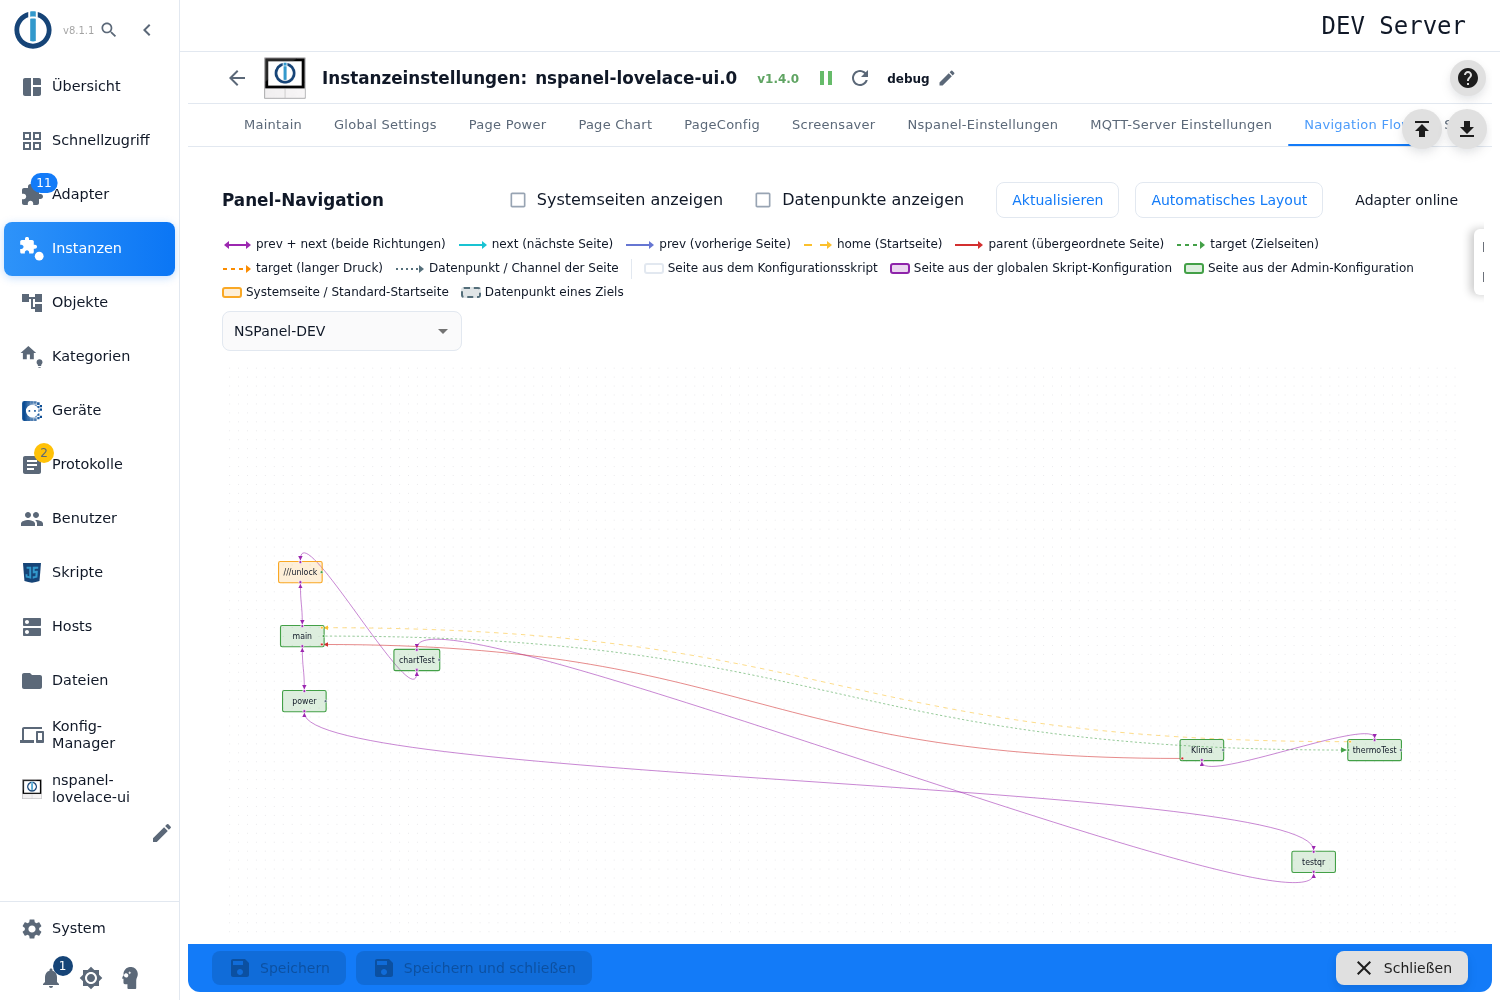
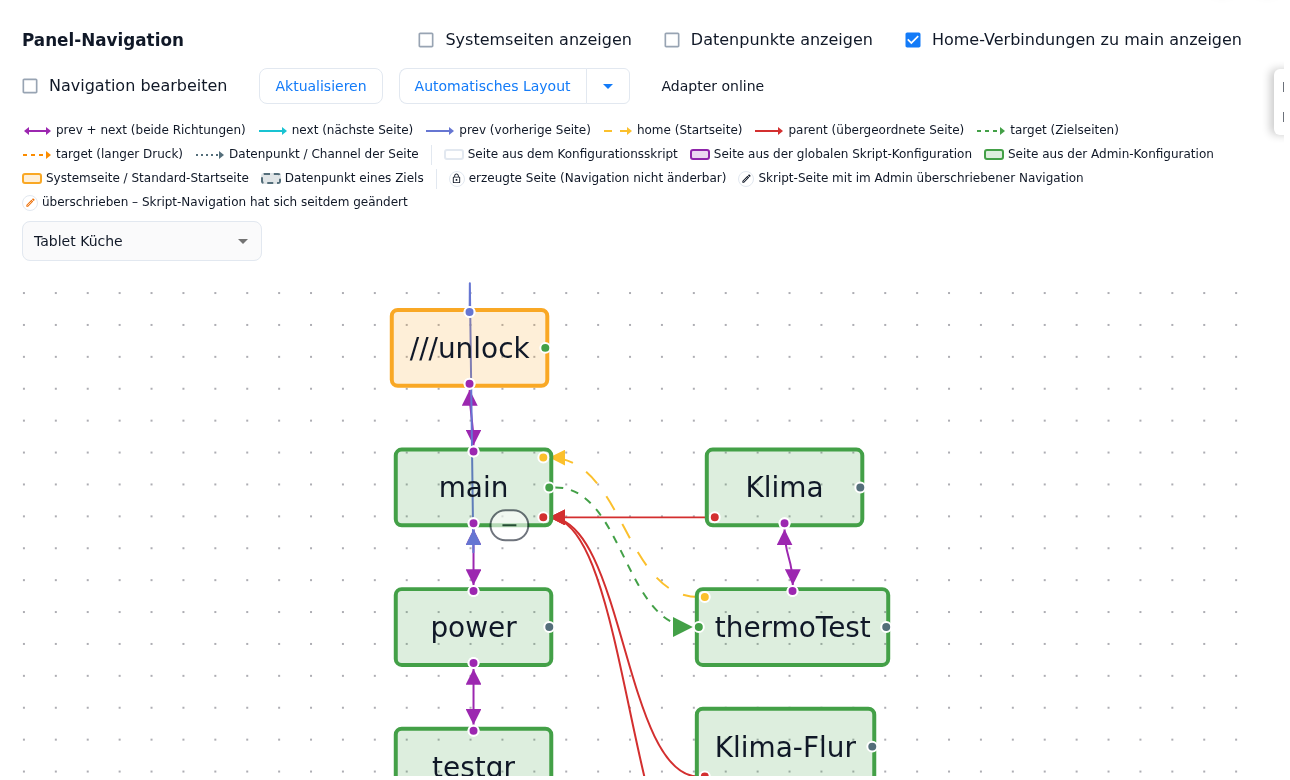
docs(de): pictures for the cross-cutting pages
- screensaver item dialog without expert mode, raw data dialog
- page details with the paging fields, raw data dialog of a page item
- navigation flow with legend and in edit mode, maintain panel card

diff --git a/doc/de/screensaver.md b/doc/de/screensaver.md
@@ -134,7 +134,7 @@ Dritte Möglichkeit *Farbe aus Datenpunkt*: ein State, dessen Wert die Farbe ist
 
 Ein Item mit Bedingung trägt im Panelbild das Augen-Symbol und **belegt auf dem Panel keinen Platz**, solange die Bedingung nicht erfüllt ist – die übrigen Items rücken nach.
 
-![Der vollständige Item-Dialog mit Icon-Liste und Sichtbarkeit](../Pictures/screensaverAdmin/admin-16-item-expertenmodus.png)
+![Der vollständige Item-Dialog mit Icon-Liste und Sichtbarkeit](../Pictures/screensaverAdmin/admin-16-item-icon-und-sichtbarkeit.png)
 
 Der **Expertenmodus** (Symbol unten links in der Admin-Leiste) wirkt im Item-Dialog nur noch an einer Stelle: bei einem Datums- oder Zeit-Datenpunkt bietet das Feld **Datumsformat** dann zusätzlich *Eigenes (JSON)* und darunter ein Feld für freie `Intl.DateTimeFormatOptions`. Alle anderen Felder stehen ohne ihn offen.
 
@@ -155,7 +155,7 @@ Mit der Quelle **Template** nimmt ein Platz ein PageItem-Template des Adapters (
 
 Für Items, die der Dialog nicht in Felder fasst, nimmt der Item-Dialog die Konfiguration **als JSON** – genauso wie bei den Seiten-Items (siehe [PageConfig-Dialoge](PageConfig-Dialoge)). Hier landen auch die Items, die die [Migration](Migration) aus einem Skript als Rohdaten übernommen hat.
 
-> *(Bild folgt: der Dialog **Rohdaten des Items** mit Formatwahl, JSON-Editor und den drei Knöpfen.)*
+![Der Dialog „Rohdaten des Items" am Screensaver-Item](../Pictures/screensaverAdmin/admin-17-rohdaten-dialog.png)
 
 - **Der Knopf**: `{ }` rechts oben im Titel des Item-Dialogs, Tooltip *Item als Rohdaten (JSON) eingeben*. Er ist blass, solange das Item über die Felder konfiguriert ist, und **orange**, sobald Rohdaten aktiv sind.
 - **Der Dialog** heißt **Rohdaten des Items**. Oben die Formatwahl, darunter ein Hilfetext zum gewählten Format, dann ein JSON-Editor mit **JSON formatieren**. Ungültiger Text wird rot umrandet und mit *Ungültiges JSON: …* bzw. *Die Konfiguration muss ein JSON-Objekt { ... } sein* gemeldet; **Übernehmen** bleibt dann gesperrt.

diff --git a/doc/de/naviFlow.md b/doc/de/naviFlow.md
@@ -2,7 +2,7 @@
 
 Dieser Tab zeichnet die **Navigation eines Panels als Graph**: Jede Seite ist ein **Knoten**, jede Verbindung zwischen zwei Seiten eine **Linie**. Damit lässt sich auf einen Blick prüfen, ob die Seiten so zusammenhängen, wie es gedacht war, und woher jede Seite kommt. Seit 2.0.0 ist der Tab außerdem ein **Editor**: Mit dem Haken *Navigation bearbeiten* werden `prev`, `next`, `home` und `parent` direkt im Graphen gezogen statt Feld für Feld im Tab [PageConfig](PageConfig).
 
-<!-- Bild folgt: Navigation Flow mit Kopfzeile, vollständiger Legende und Graph (Bildauftrag 1) -->
+![Der Navigation Flow mit Legende und Graph](../Pictures/naviFlow/naviflow-01-graph.png)
 
 Inhalt:
 - [Was der Tab zeigt](#1-was-der-tab-zeigt)
@@ -90,7 +90,7 @@ Ein **Datenpunkt- oder Channel-Knoten** zeigt stattdessen *Datenpunkt-Info* bzw.
 
 Der Haken **Navigation bearbeiten** macht aus dem Graphen einen Editor.
 
-<!-- Bild folgt: Editiermodus, Quell-Anfasser an einem Knoten und gezogene Verbindung (Bildauftrag 2) -->
+![Der Editiermodus mit den Anfassern an den Knoten](../Pictures/naviFlow/naviflow-02-editiermodus.png)
 
 **Was sich im Bild ändert.** Jede editierbare Seite zeigt vier vergrößerte **Quell-Anfasser**, jede Seite außerdem die vier Ziel-Anfasser, damit eine Verbindung auf ihr abgelegt werden kann. Beidseitige `prev`/`next`-Verbindungen werden im Editiermodus **nicht mehr als eine violette Doppelpfeil-Linie**, sondern als zwei getrennte Linien gezeichnet: Jede Linie steht hier für genau einen Eintrag der Konfiguration.
 

diff --git a/doc/de/PageConfig-Dialoge.md b/doc/de/PageConfig-Dialoge.md
@@ -138,7 +138,7 @@ Unten rechts stehen **Abbrechen** und **Übernehmen**. Während der Prüfung hei
 
 ## 2. Rohdaten des Items
 
-<!-- Bild folgt: Dialog „Rohdaten des Items" mit dem Format-Umschalter native/script, dem Hinweiskasten, dem JSON-Editor und den Knöpfen „Rohdaten entfernen (zurück zum Standard)" / Abbrechen / Übernehmen -->
+![Der Dialog „Rohdaten des Items"](../Pictures/pageConfigDialoge/dialoge-rohdaten-item.png)
 
 Der Knopf **`{ }`** rechts in der Titelzeile der Pageitem-Konfiguration (Tooltip *„Item als Rohdaten (JSON) eingeben"*) öffnet den Dialog **Rohdaten des Items**. Er ist **immer** da — kein Expertenmodus nötig. Hier wird das Pageitem als rohes JSON eingegeben, für Einstellungen, für die es noch keine Oberfläche gibt. Denselben Knopf hat der Item-Dialog des [Bildschirmschoners](screensaver#4-items-der-item-dialog).
 

diff --git a/doc/de/Maintain.md b/doc/de/Maintain.md
@@ -18,7 +18,7 @@ Inhalt:
 
 Der Tab erscheint erst, wenn die MQTT-Angaben vollständig sind — eigener Server oder Broker-IP, Port und Zugangsdaten (Benutzer und Passwort, bei einem fremden Broker alternativ die zentrale Credential-Id) — und **mindestens ein Panel** in der Tabelle unter [NSPanelsetting](NSPanelsetting) steht. Fehlt davon etwas, ist der Tab nicht sichtbar.
 
-<!-- Bild folgt: Tab Maintain mit dem Kopfbereich und der Karte eines verbundenen Panels -->
+![Der Tab Maintain mit der Karte eines verbundenen Panels](../Pictures/maintain/maintain-01-panelkarte.png)
 
 Über den Karten liegen:
 

diff --git a/doc/de/PageConfig.md b/doc/de/PageConfig.md
@@ -146,7 +146,7 @@ Zu wissen:
 
 Der zweite Reiter der rechten Spalte. Er gilt für jeden Seitentyp; die drei Blätter-Einstellungen erscheinen nur bei den Karten, die eine Liste von Seitenelementen blättern.
 
-<!-- Bild folgt: Rechte Spalte, Reiter Seitendetails einer Grid-Seite: Startseite (main) mit Hinweistext, Versteckt, Blättern der Seitenelemente, Weiterblättern um, Verhalten des Bildschirmschoners -->
+![Die Seitendetails mit Blätter-Einstellungen und Bildschirmschoner-Verhalten](../Pictures/pageConfig/pageconfig-06-seitendetails.png)
 
 | Einstellung | Bedeutung |
 |---|---|
